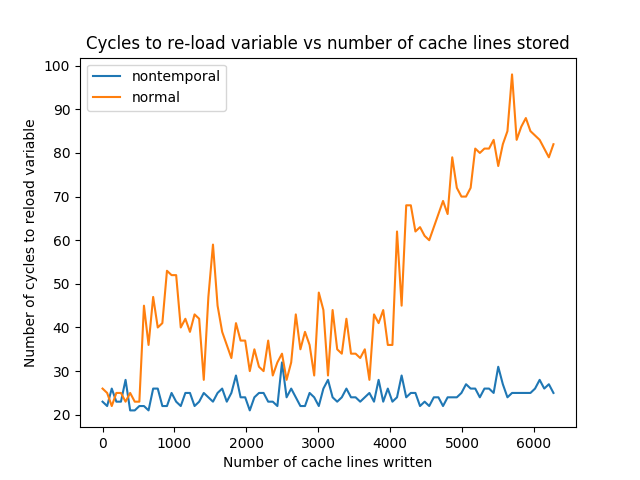
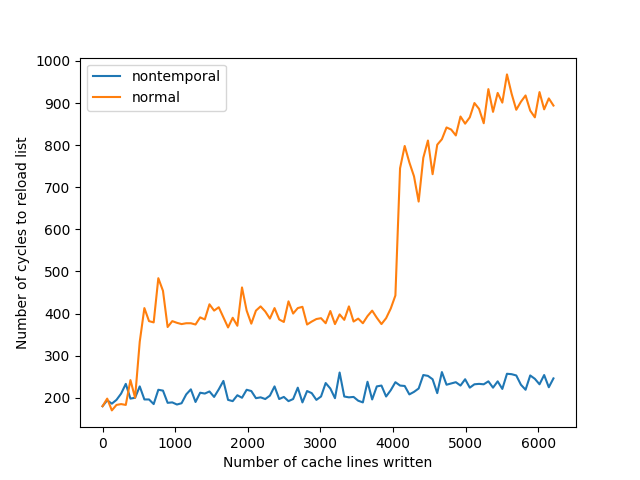
Reduce variability in mem test

diff --git a/_posts/2018-08-26-nontemporal.md b/_posts/2018-08-26-nontemporal.md
@@ -33,7 +33,7 @@ and therefore won't pollute the cache. Our benchmark loop will be:
 ``` c
 uint64_t run_timer_loop(void) {
 
-    force_load(&test_variable);
+    shuffle_list();
 
     mfence();
 
@@ -48,16 +48,16 @@ uint64_t run_timer_loop(void) {
     mfence();
 
     uint64_t start = rdtscp();
-    force_load(&test_variable);
+    iterate_list();
     uint64_t end = rdtscp();
 }
 ```
-We'll try writing between 0 and 6000 cache lines of either normal stores or nontemporal stores, and time reloading a variable.
+We'll try writing between 0 and 6000 cache lines of either normal stores or nontemporal stores, and time iterating a shuffed linked list <sup><a href="#fnlist" id="ref_list">2</a></sup>.
 The results are:
 ![write_allocate]({{ "/img/write_allocate.png" }})
 
-This is what we hoped for - write allocation from normal stores evicts our variable from the cache, but nontemporal
-stores don't write-allocate and hence don't evict our variable. If this weren't true, none of this would really be worth anything.
+This is what we hoped for - write allocation from normal stores evicts our list from the cache, but nontemporal
+stores don't write-allocate and hence don't evict our list. If this weren't true, none of this would really be worth anything.
 The results might seem obvious, but it's worth confirming that nontemporal stores truly behave as expected on standard instead of
 write-combining memory.
 
@@ -130,3 +130,5 @@ the nontemporal stores complete, they simply just stall.
 TODO, tl;dr is that you better write 64 bytes at once nontemporally
 
 <sup id="fnsse">1. Nontemporal stores were introduced in SSE, and loads in SSE 4.1<a href="#ref_sse" title="Jump back to footnote 1 in the text.">↩</a></sup> 
+
+<sup id="fnlist">2. Iterating a list help reduce variability by having to hit multiple lines in a prefetcher-invisible way<a href="#ref_list" title="Jump back to footnote 2 in the text.">↩</a></sup> 
